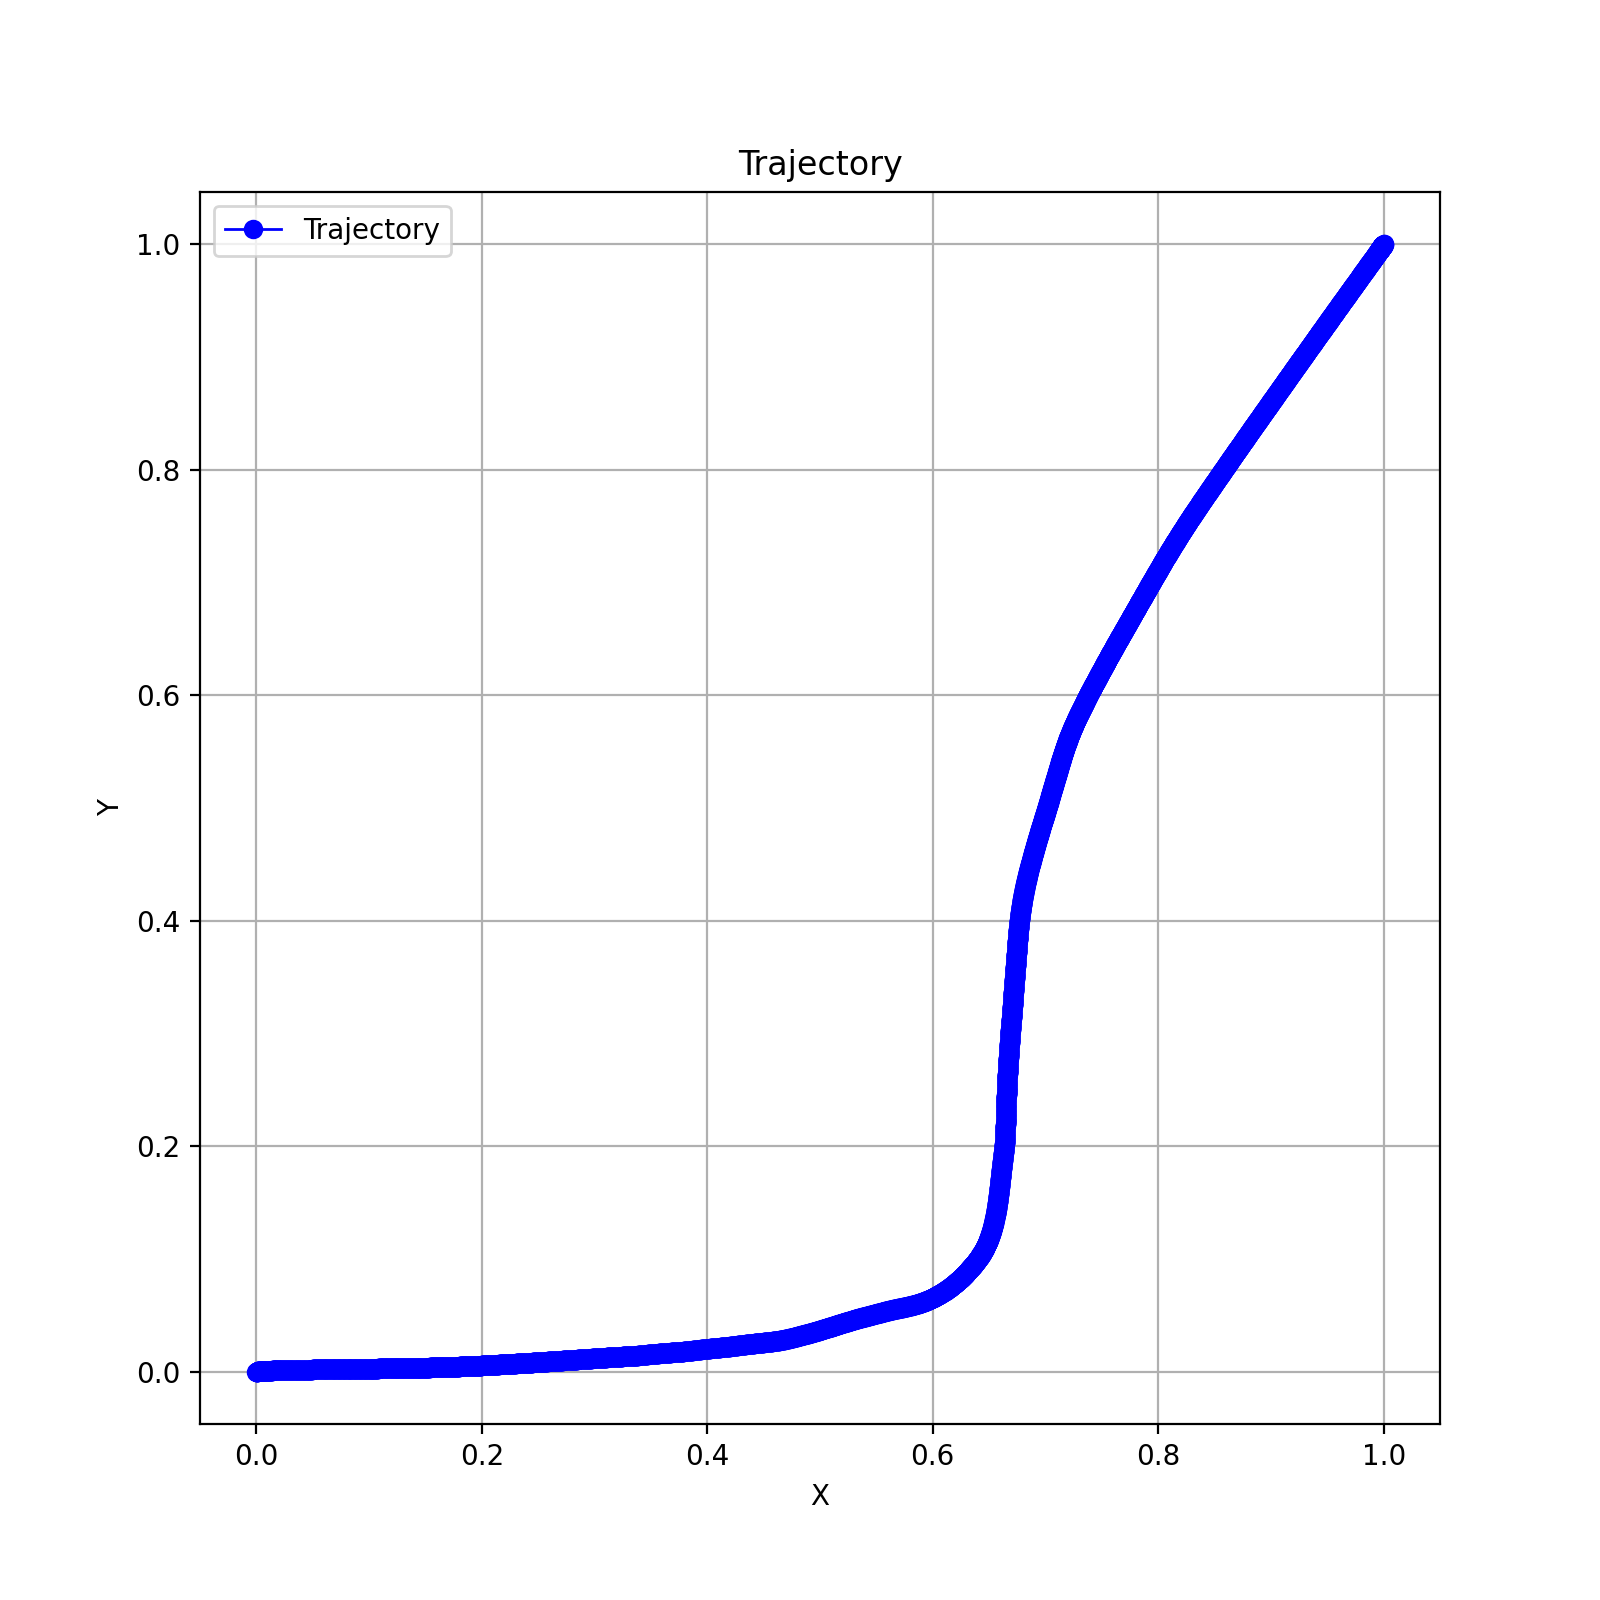
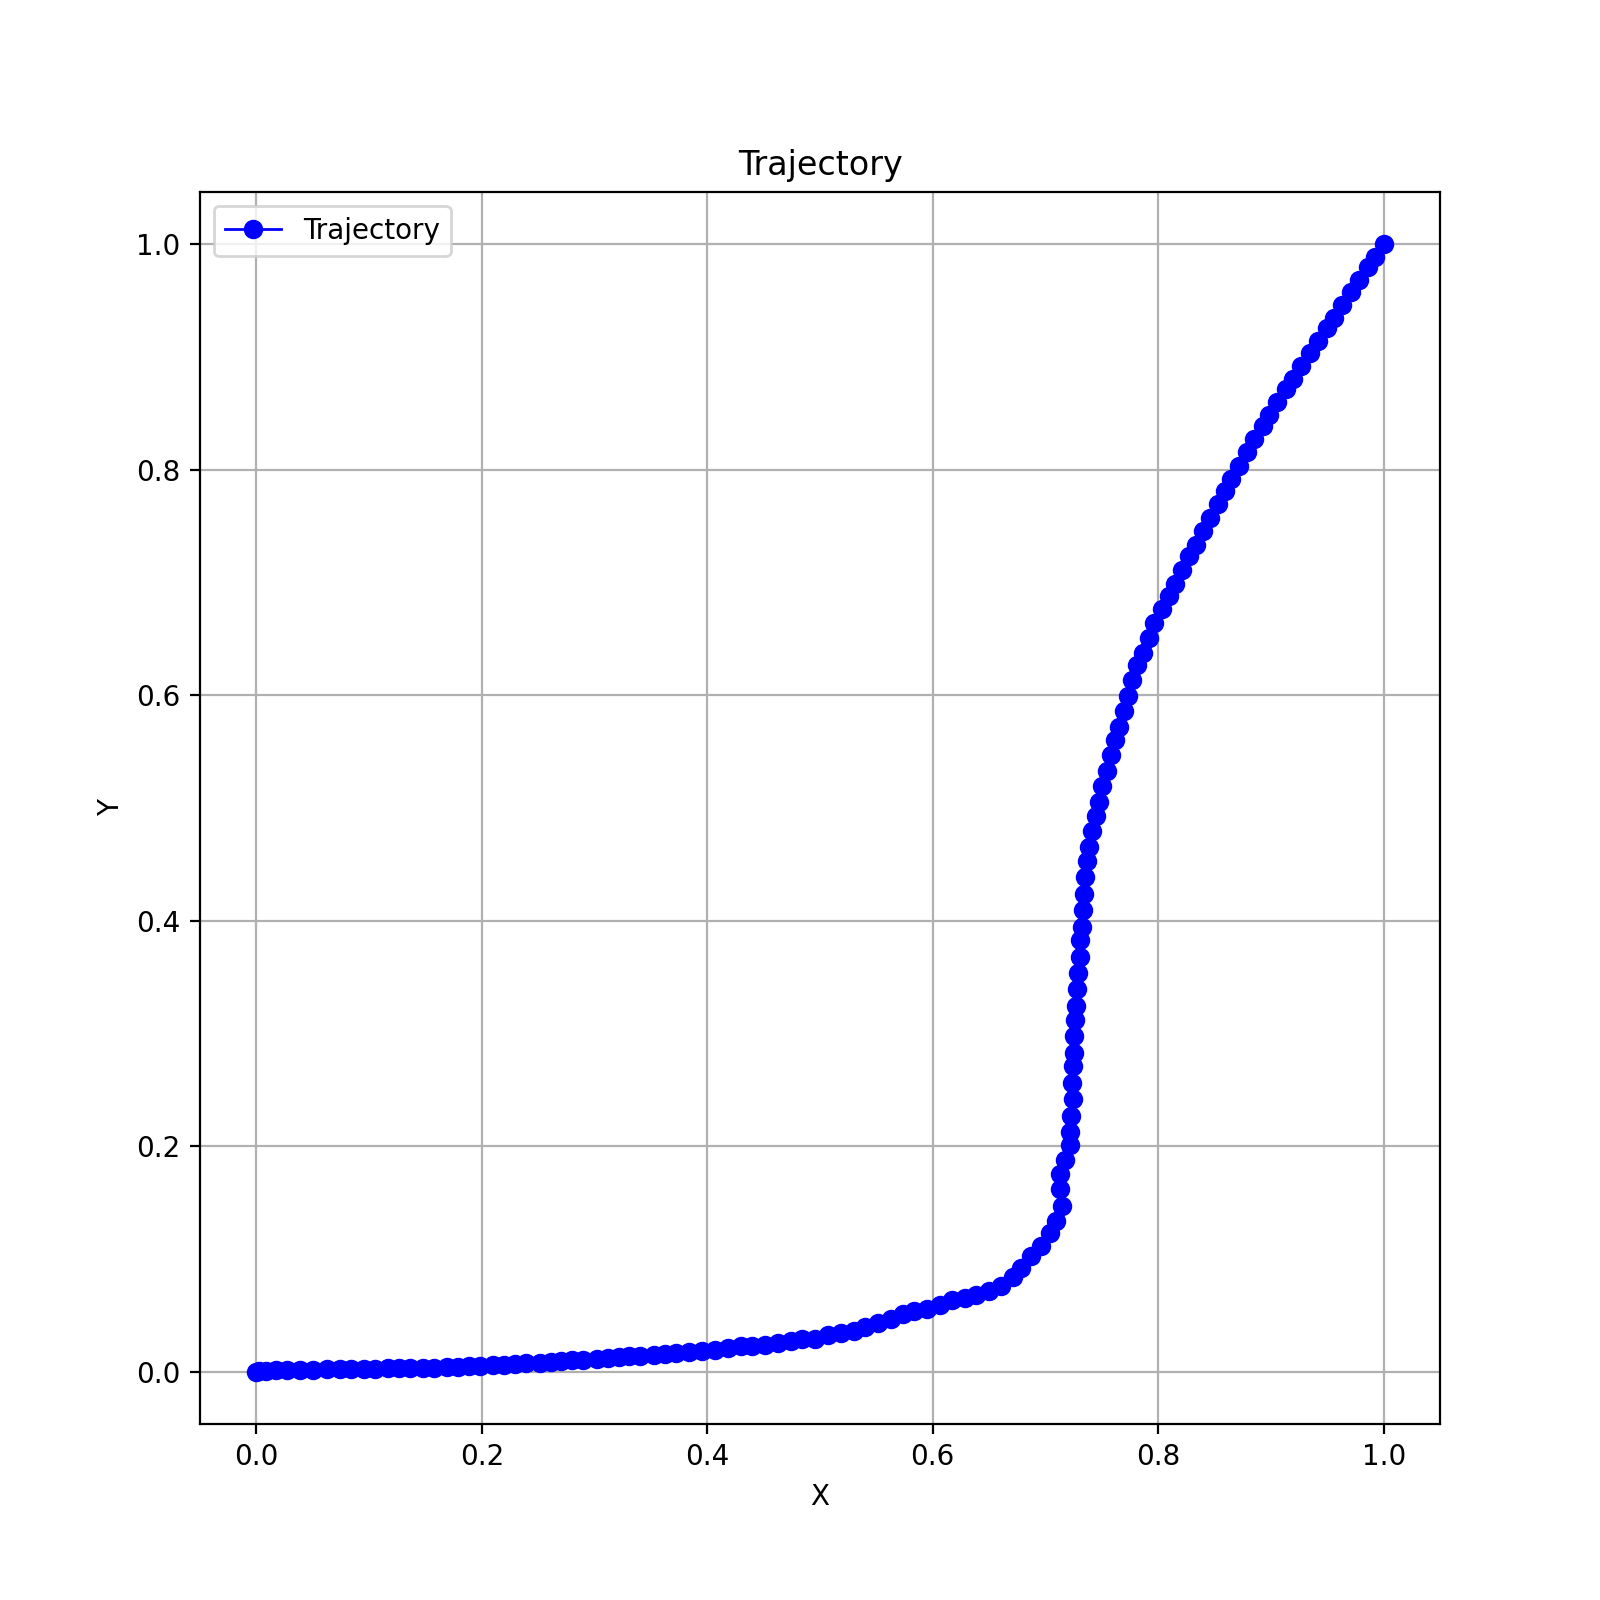
post_processing: added additional logic for turns in and end calculations

Changed region(s): [[0.4688, 0.2188, 0.8125, 0.8438], [0.8125, 0.1875, 0.8438, 0.2188]]

diff --git a/Controller/post_processing.py b/Controller/post_processing.py
@@ -60,7 +60,7 @@ def plot_trajectory_with_smoothing(xs, ys, smooth_xs, smooth_ys):
     plt.show()
 
 
-def smooth_coordinates(xs, ys, window_length=11, polyorder=3):
+def smooth_coordinates(xs, ys, window_length=15, polyorder=4):
     xs = np.asarray(xs)
     ys = np.asarray(ys)
     if window_length % 2 == 0:
@@ -227,8 +227,8 @@ def filter_turns(turns_info, min_points=20, min_peak_curvature=0.02, min_radius=
     return out
 
 def analyze_turns_robust(smooth_xs, smooth_ys,
-                         threshold=0.08,
-                         min_length_pts=20,
+                         threshold=0.1,
+                         min_length_pts=18,
                          merge_gap=20,
                          min_peak_curvature=0.02,
                          min_radius=0.5,
@@ -336,45 +336,197 @@ def plot_curvature_visual(curvature, threshold=0.01):
     plt.tight_layout()
     plt.show()
 
+def draw_scaled_circle(ax, center, radius, color=None, linestyle='--', alpha=0.5, fill=False, linewidth=1.5):
+    """
+    Отрисовать окружность на ax. Вынесено в отдельную функцию для повторного использования.
+    center: (x,y)
+    radius: float
+    """
+    if not np.isfinite(radius) or radius <= 0:
+        return None
+    circle = plt.Circle((center[0], center[1]), radius, color=color, fill=fill,
+                        linestyle=linestyle, alpha=alpha, linewidth=linewidth)
+    ax.add_patch(circle)
+    return circle
+
+def add_scaled_radius_and_intersections(turns_info, smooth_xs, smooth_ys, C=7.0, scale_min=2.0, scale_max=5.0):
+    xs = np.asarray(smooth_xs)
+    ys = np.asarray(smooth_ys)
+    n = len(xs)
+
+    for t in turns_info:
+        apex_x = float(xs[t['apex_idx']])
+        apex_y = float(ys[t['apex_idx']])
+        R = float(t.get('apex_radius', np.inf))
+
+        if not np.isfinite(R) or R <= 0:
+            t['scaled_radius'] = None
+            t['apex_coords'] = (apex_x, apex_y)
+            t['entry_idx'] = None
+            t['exit_idx'] = None
+            continue
+
+        scale = np.clip(C / R, scale_min, scale_max)
+        scaled_radius = R * scale
+
+        t['scaled_radius'] = float(scaled_radius)
+        t['apex_coords'] = (apex_x, apex_y)
+
+        dist = np.sqrt((xs - apex_x)**2 + (ys - apex_y)**2)
+        tol = max(1e-6, scaled_radius * 0.05)
+        close_points_idx = np.where(np.abs(dist - scaled_radius) < tol)[0]
+
+        if len(close_points_idx) >= 2:
+            t['entry_idx'] = int(close_points_idx[0])
+            t['exit_idx'] = int(close_points_idx[-1])
+
+        else:
+            if close_points_idx.size == 1:
+                t['entry_idx'] = int(close_points_idx[0])
+                t['exit_idx'] = int(close_points_idx[0])
+            else:
+                t['entry_idx'] = None
+                t['exit_idx'] = None
+
+    return turns_info
+
+def circles_intersect(c1, r1, c2, r2, eps=1e-9):
+    d = math.hypot(c1[0]-c2[0], c1[1]-c2[1])
+    if d <= (r1 + r2 + eps) and d + eps >= abs(r1 - r2):
+        return True
+    return False
+
+def merge_overlapping_scaled_circles(turns_info, smooth_xs, smooth_ys, s=None):
+    xs = np.asarray(smooth_xs)
+    ys = np.asarray(smooth_ys)
+    n = len(xs)
+
+    if s is None:
+        s = compute_arc_length(xs, ys)
+    else:
+        s = np.asarray(s)
+
+    used = [False] * len(turns_info)
+    indexed = sorted(enumerate(turns_info), key=lambda ie: ie[1]['apex_idx'])
+    result = []
+
+    i = 0
+    while i < len(indexed):
+        idx_i, ti = indexed[i]
+        if used[idx_i]:
+            i += 1
+            continue
+
+        merged_turn = dict(ti)
+        used[idx_i] = True
+        j = i + 1
+        while j < len(indexed):
+            idx_j, tj = indexed[j]
+            if used[idx_j]:
+                j += 1
+                continue
+
+            c1 = tuple(merged_turn.get('apex_coords', (None, None)))
+            r1 = merged_turn.get('scaled_radius', None)
+            c2 = tuple(tj.get('apex_coords', (None, None)))
+            r2 = tj.get('scaled_radius', None)
+
+            if c1[0] is None or c2[0] is None or r1 is None or r2 is None:
+                break
+
+            if circles_intersect(c1, r1, c2, r2):
+                apex_idx_1 = max(0, min(len(s)-1, int(merged_turn['apex_idx'])))
+                apex_idx_2 = max(0, min(len(s)-1, int(tj['apex_idx'])))
+                s1 = float(s[apex_idx_1])
+                s2 = float(s[apex_idx_2])
+                s_mid = 0.5 * (s1 + s2)
+
+                new_apex_idx = int(np.argmin(np.abs(s - s_mid)))
+                x_mid_on_track = float(xs[new_apex_idx])
+                y_mid_on_track = float(ys[new_apex_idx])
+
+                new_start = min(merged_turn.get('start', apex_idx_1), tj.get('start', apex_idx_2))
+                new_end = max(merged_turn.get('end', apex_idx_1), tj.get('end', apex_idx_2))
+                new_s_start = min(merged_turn.get('s_start', s1), tj.get('s_start', s2))
+                new_s_end = max(merged_turn.get('s_end', s1), tj.get('s_end', s2))
+
+                curv1 = float(merged_turn.get('apex_curvature', 0.0))
+                curv2 = float(tj.get('apex_curvature', 0.0))
+                if abs(curv1) >= abs(curv2):
+                    new_apex_curv = curv1
+
+                else:
+                    new_apex_curv = curv2
+                new_apex_radius = float(np.inf) if abs(new_apex_curv) < 1e-12 else 1.0 / abs(new_apex_curv)
+
+                entry_candidate = merged_turn.get('entry_idx', None)
+                exit_candidate = tj.get('exit_idx', None)
+
+                merged_turn = {
+                    'start': int(new_start),
+                    'end': int(new_end),
+                    'apex_idx': int(new_apex_idx),
+                    'apex_curvature': float(new_apex_curv),
+                    'apex_radius': float(new_apex_radius),
+                    'length': float(new_s_end - new_s_start),
+                    's_start': float(new_s_start),
+                    's_end': float(new_s_end),
+                    'apex_coords': (x_mid_on_track, y_mid_on_track),
+                    'scaled_radius': float(0.5 * (r1 + r2)),
+                    'entry_idx': (int(entry_candidate) if entry_candidate is not None else None),
+                    'exit_idx': (int(exit_candidate) if exit_candidate is not None else None)
+                }
+
+                used[idx_j] = True
+                j += 1
+            else:
+                break
+
+        result.append(merged_turn)
+        i += 1
+
+    result = sorted(result, key=lambda t: t['apex_idx'])
+
+    return result
+
 def plot_turns_on_trajectory(smooth_xs, smooth_ys, turns_info, show_apex=True, figsize=(8,8)):
     plt.figure(figsize=figsize)
     plt.plot(smooth_xs, smooth_ys, color='gray', linewidth=1, label='Smoothed trajectory')
     cmap = plt.get_cmap('tab10')
+    ax = plt.gca()
+
     for i, info in enumerate(turns_info):
         st, ed = info['start'], info['end']
         color = cmap(i % 10)
         plt.plot(smooth_xs[st:ed+1], smooth_ys[st:ed+1], color=color, linewidth=2.2, label=f'Turn {i+1}')
         if show_apex:
-            ax = plt.gca()
-            ax.plot(smooth_xs[info['apex_idx']], smooth_ys[info['apex_idx']],
+            apex_x = float(info['apex_coords'][0]) if 'apex_coords' in info else float(smooth_xs[info['apex_idx']])
+            apex_y = float(info['apex_coords'][1]) if 'apex_coords' in info else float(smooth_ys[info['apex_idx']])
+            apex_radius = info.get('apex_radius', np.inf)
+
+            ax.plot(apex_x, apex_y,
                     marker='o', markersize=6, color='k', markeredgecolor='yellow')
-            ax.text(smooth_xs[info['apex_idx']], smooth_ys[info['apex_idx']],
-                    f" a{i+1}\nR={info['apex_radius']:.1f}m", fontsize=8, color='k')
+            ax.text(apex_x, apex_y,
+                    f" a{i+1}\nR={apex_radius:.1f}m", fontsize=8, color='k')
+
+            if np.isfinite(apex_radius) and apex_radius < 1e6:
+                draw_scaled_circle(ax, (apex_x, apex_y), apex_radius, color=color, linestyle='--', alpha=0.25, fill=False, linewidth=1.0)
+
+            scaled_r = info.get('scaled_radius', None)
+            if scaled_r is not None and np.isfinite(scaled_r):
+                draw_scaled_circle(ax, (apex_x, apex_y), scaled_r, color=color, linestyle=':', alpha=0.35, fill=False, linewidth=1.5)
+
+                eidx = info.get('entry_idx', None)
+                xidx = info.get('exit_idx', None)
+                if eidx is not None and 0 <= eidx < len(smooth_xs):
+                    ax.plot(smooth_xs[eidx], smooth_ys[eidx], marker='D', markersize=8, color=color, label=f'Entry Turn {i+1}')
+                if xidx is not None and 0 <= xidx < len(smooth_xs):
+                    ax.plot(smooth_xs[xidx], smooth_ys[xidx], marker='X', markersize=8, color=color, label=f'Exit Turn {i+1}')
+
     plt.xlabel('X')
     plt.ylabel('Y')
-    plt.title('Trajectory with detected turns (segments) and apexes')
+    plt.title('Trajectory with detected turns, apexes and adaptive scaled circle intersections')
     plt.axis('equal')
-    plt.grid(True)
-    plt.legend(loc='upper right', fontsize='small')
-    plt.show()
-
-def plot_turns_on_curvature(curvature, turns_info, threshold=0.01, figsize=(12,4)):
-    plt.figure(figsize=figsize)
-    x = np.arange(len(curvature))
-    plt.plot(x, curvature, color='lightgray', linewidth=1, label='Curvature (full)')
-    cmap = plt.get_cmap('tab10')
-    for i, info in enumerate(turns_info):
-        st, ed = info['start'], info['end']
-        color = cmap(i % 10)
-        plt.plot(x[st:ed+1], curvature[st:ed+1], color=color, linewidth=2, label=f'Turn {i+1}')
-        ai = info['apex_idx']
-        plt.plot(ai, curvature[ai], marker='o', markersize=6, color='k', markeredgecolor=color)
-        plt.text(ai, curvature[ai], f" R={info['apex_radius']:.1f}m", fontsize=8, va='bottom')
-    plt.axhline(y=threshold, color='blue', linestyle='--', linewidth=1)
-    plt.axhline(y=-threshold, color='blue', linestyle='--', linewidth=1)
-    plt.xlabel('Index along trajectory')
-    plt.ylabel('Curvature (1/m)')
-    plt.title('Curvature with detected turns')
     plt.grid(True)
     plt.legend(loc='upper right', fontsize='small')
     plt.show()

diff --git a/Controller/main.py b/Controller/main.py
@@ -11,11 +11,10 @@ from post_processing import (
     smooth_trajectory_with_window,
     plot_trajectory_with_smoothing,
     calculate_curvature_global_spline,
-    plot_curvature_visual,
-    detect_turn_segments,
     analyze_turns,
-    plot_turns_on_trajectory,
-    plot_turns_on_curvature
+    add_scaled_radius_and_intersections,
+    merge_overlapping_scaled_circles,
+    plot_turns_on_trajectory
 )
 
 
@@ -77,7 +76,7 @@ cameras = {
     'right': right_camera
 }
 
-speed = 13
+speed = 18
 angle = 0.0
 err = 0.0
 
@@ -197,24 +196,16 @@ xs_norm, ys_norm, min_x, max_x, min_y, max_y = normalize_coordinates(xs, ys)
 
 plot_trajectory(xs_norm, ys_norm)
 
-xs_smooth, ys_smooth = smooth_coordinates(xs, ys, window_length=13, polyorder=3)
+xs_smooth, ys_smooth = smooth_coordinates(xs, ys, window_length=15, polyorder=4)
 smooth_xs, smooth_ys = smooth_trajectory_with_window(xs_smooth, ys_smooth, window_size=3, num_interp_per_segment=100)
-
-smooth_xs_norm, smooth_ys_norm, _, _, _, _ = normalize_coordinates(smooth_xs, smooth_ys)
-
-plot_trajectory(smooth_xs_norm, smooth_ys_norm)
-plot_trajectory_with_smoothing(xs_norm, ys_norm, smooth_xs_norm, smooth_ys_norm)
 
 curvature = calculate_curvature_global_spline(smooth_xs, smooth_ys)
 
-turns_info, s = analyze_turns(smooth_xs, smooth_ys, curvature, threshold=0.1, min_length=15)
+turns_info, s = analyze_turns(smooth_xs, smooth_ys, curvature, threshold=0.1, min_length=18)
 
-print("Detected turn apexes:")
-for i, turn in enumerate(turns_info, start=1):
-    apex_idx = turn['apex_idx']
-    apex_radius = turn['apex_radius']
-    apex_curvature = turn['apex_curvature']
-    print(f"Turn {i}: Apex index = {apex_idx}, Radius = {apex_radius:.2f} m, Curvature = {apex_curvature:.4f}")
+turns_info = add_scaled_radius_and_intersections(turns_info, smooth_xs, smooth_ys, C=7.0, scale_min=2, scale_max=5.0)
 
-plot_turns_on_trajectory(smooth_xs, smooth_ys, turns_info)
-plot_turns_on_curvature(curvature, turns_info, threshold=0.05)
+turns_info_merged = merge_overlapping_scaled_circles(turns_info, smooth_xs, smooth_ys)
+
+# визуализируем уже объединённые/обработанные повороты
+plot_turns_on_trajectory(smooth_xs, smooth_ys, turns_info_merged)
